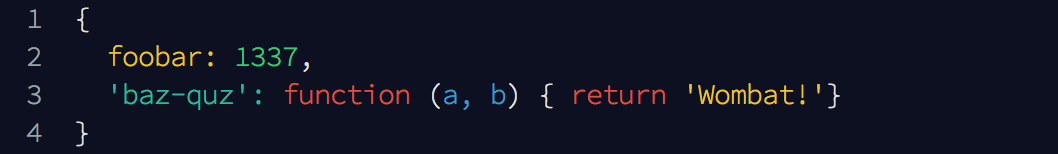
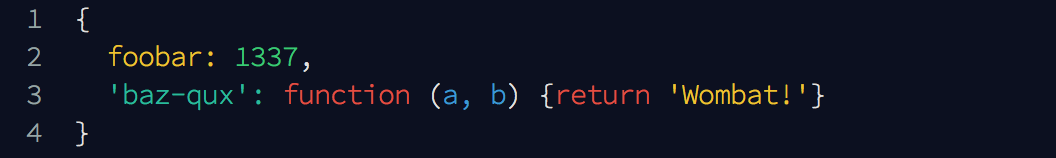
Update README

diff --git a/index.js b/index.js
@@ -4,38 +4,28 @@ const chalk = require('chalk')
 const stripAnsi = require('strip-ansi')
 const merge = require('deepmerge')
 
-const DARK_COLORS = {
-	BASE: ['white'],
-	KEYWORD: ['red'],
-	COMMENT: ['gray', 'dim'],
-	SYMBOL: ['cyan'],
-	META: ['cyan'],
-	NUMBER: ['green'],
-	FUNCTION: ['white'],
-	TITLE: ['green'],
-	PARAMS: ['blue'],
-	STRING: ['yellow'],
-	BUILT_IN: ['blue'],
-	LITERAL: ['magenta'],
-	ATTR: ['yellow'],
-	ATTR_STRING: ['cyan'],
-	TRAILING_SPACE: [],
-	REGEXP: ['magenta'],
-	LINE_NUMBERS: ['gray', 'dim']
-}
-
-const chalkify = styleAry => {
-	if (!styleAry) {
-		return chalk.reset
-	}
-
-	let style = chalk
-
-	styleAry.forEach(prop => {
-		style = style[prop]
-	})
-
-	return style
+const darkPalette = {
+	base: chalk.white,
+	keyword: chalk.red,
+	comment: chalk.white.dim,
+	symbol: chalk.cyan,
+	meta: chalk.cyan,
+	number: chalk.green,
+	function: chalk.white,
+	title: chalk.green,
+	params: chalk.blue,
+	string: chalk.yellow,
+	// eslint-disable-next-line camelcase
+	built_in: chalk.blue,
+	literal: chalk.magenta,
+	attr: chalk.yellow,
+	// eslint-disable-next-line camelcase
+	attr_string: chalk.cyan,
+	// eslint-disable-next-line camelcase
+	trailing_space: chalk,
+	regexp: chalk.magenta,
+	// eslint-disable-next-line camelcase
+	line_numbers: chalk.grey
 }
 
 const filter = (node, opts) => {
@@ -49,14 +39,14 @@ const filter = (node, opts) => {
 	}
 
 	if (node.name === 'span' && node.type === 'tag') {
-		color = node.attribs.class.split('-')[1].toUpperCase()
+		color = node.attribs.class.split('-')[1].toLowerCase()
 	}
 
 	if (node.childNodes && node.childNodes.length > 0) {
 		childText = node.childNodes.map(childNode => filter(childNode, opts)).join('')
 
 		if (typeof color === 'string') {
-			return chalkify(opts.colors[color])(childText)
+			return opts.colors[color](childText)
 		}
 
 		return childText
@@ -110,21 +100,21 @@ const syntaxHlJson = (json, opts) => {
 
 	try {
 		const highlighted = json.replace(/("(\\u[a-zA-Z0-9]{4}|\\[^u]|[^\\"])*"(\s*:)?|\b(true|false|null)\b|-?\d+(?:\.\d*)?(?:[eE][+-]?\d+)?)/g, match => {
-			let colorClass = 'NUMBER'
+			let colorClass = 'number'
 
 			// eslint-disable-next-line unicorn/prefer-starts-ends-with
 			if (/^"/.test(match)) {
 				// eslint-disable-next-line unicorn/prefer-starts-ends-with
 				if (/:$/.test(match)) {
 					if (match.includes('-')) {
-						colorClass = 'ATTR_STRING'
+						colorClass = 'attr_string'
 						match = match.replace(/"/g, '\'')
 					} else {
-						colorClass = 'ATTR'
+						colorClass = 'attr'
 						match = match.replace(/"/g, '')
 					}
 				} else {
-					colorClass = 'STRING'
+					colorClass = 'string'
 
 					match = match.replace(/"/g, '\'')
 						.replace(/\\n/g, '\n')
@@ -134,18 +124,16 @@ const syntaxHlJson = (json, opts) => {
 						match.substr(match.length - 11, 10) === '[FUNCTION]') {
 						match = match.substr(11, match.length - 22)
 						match = syntaxHlStr('javascript', match, opts)
-						colorClass = 'FUNCTION'
+						colorClass = 'function'
 					}
 				}
 			} else if (/true|false/.test(match)) {
-				colorClass = 'LITERAL'
+				colorClass = 'literal'
 			} else if (/null/.test(match)) {
-				colorClass = 'LITERAL'
+				colorClass = 'literal'
 			}
 
-			const styleAry = opts.colors[colorClass]
-			const style = chalkify(styleAry)
-			return style(match)
+			return opts.colors[colorClass](match)
 		})
 
 		return highlighted
@@ -164,7 +152,7 @@ const bgLineNos = (text, opts) => {
 		let lineOutput = ''
 
 		if (opts.lineNumbers) {
-			const lineNum = chalkify(opts.colors.LINE_NUMBERS)(
+			const lineNum = opts.colors.line_numbers(
 				padLine(
 					String(lineNumber + 1)
 						.padStart(String(lines.length + 1).length, ' '),
@@ -176,14 +164,14 @@ const bgLineNos = (text, opts) => {
 
 		const plain = stripAnsi(line)
 		const padToEnd = String().padEnd(max - plain.length, ' ')
-		const runLengthLine = line + chalkify(opts.colors.TRAILING_SPACE)(padToEnd)
+		const runLengthLine = line + opts.colors.trailing_space(padToEnd)
 		const paddedLine = padLine(runLengthLine, opts.codePad)
 		lineOutput += paddedLine
 
 		output += lineOutput + '\n'
 	})
 
-	return chalkify(opts.colors.BASE)(output)
+	return opts.colors.base(output)
 }
 
 const tabToSpaceIndent = (str, opts) => str.replace(/\t/g, String().padStart(opts.indent, ' '))
@@ -195,7 +183,7 @@ const procOpts = (opts = {}) => {
 		lineNumberPad: 1,
 		codePad: 1,
 		indent: 4,
-		colors: DARK_COLORS
+		colors: darkPalette
 	}
 
 	if (opts) {

diff --git a/figure-05.js b/figure-05.js
@@ -1,4 +1,5 @@
 const chromafi = require('.')
+const chalk = require('chalk')
 
 const obj = {
 	foo: 'bar',
@@ -10,22 +11,23 @@ const obj = {
 	}
 }
 
-const chromatastic = chromafi(obj, {
+const chromafantastic = chromafi(obj, {
 	colors: {
-		BASE: ['bgWhite', 'black', 'bold'],
-		KEYWORD: ['red'],
-		NUMBER: ['blue', 'dim'],
-		FUNCTION: ['black'],
-		TITLE: ['blue'],
-		PARAMS: ['black'],
-		STRING: ['black'],
-		BUILT_IN: ['magenta'],
-		LITERAL: ['blue'],
-		ATTR: ['black'],
-		TRAILING_SPACE: [],
-		REGEXP: ['blue'],
-		LINE_NUMBERS: ['bgBlue', 'white']
+		base: chalk.bgWhite.black.bold,
+		keyword: chalk.red,
+		number: chalk.blue.dim,
+		function: chalk.black,
+		title: chalk.blue,
+		params: chalk.black,
+		string: chalk.black,
+		built_in: chalk.blue,
+		literal: chalk.blue,
+		attr: chalk.black,
+		// Just pass `chalk` to ignore colors
+		trailing_space: chalk,
+		regexp: chalk.blue,
+		line_numbers: chalk.bgBlue.white
 	}
 })
 
-console.log(chromatastic)
+console.log(chromafantastic)

diff --git a/figure-00.js b/figure-00.js
@@ -1,6 +1,6 @@
 const chromafi = require('.')
 
-const obj = {foobar: 1337, 'baz-quz': function (a, b) { return 'Wombat!'}}
+const obj = {foobar: 1337, 'baz-qux': function (a, b) {return 'Wombat!'}}
 
 const options = {
 	lineNumberPad: 1,
@@ -8,7 +8,7 @@ const options = {
 	indent: 2,
 	lineNumbers: true,
 	colors: {
-		LINE_NUMBERS: ['reset', 'gray']
+		line_numbers: chalk.grey
 	}
 }
 

diff --git a/README.md b/README.md
@@ -1,10 +1,18 @@
-# Chromafi
+# 💥 Chromafi
 
-> 💥 Syntax highlight to console: any lang - any fn, any - obj.
+> Console syntax highlighting: any function, any object and 176 languages.
 
 ![Figure 00](figure-00.png)
 
-For years, Javacripts across the web have committed monocrimes against humanity too horrible to mention. Today our long stuggle ends. with Chromafi, JavaScript objects logged to the console... still look like JavaScript objects. Oh... and you can highlight other languages too!
+For years, Javacripts across the web have committed monocrimes against humanity too horrible to mention. Today our long stuggle ends.
+
+* JavaScript objects logged to the console... still look like JavaScript objects.
+* Chromafi highlights JavaScript functions.
+* Adjust indentation for tabbed code with Chromafi.
+* User defined color palettes.
+* Line numbers optional.
+* Padding adjustment for use with background colors or tight spaces.
+* Chromafi also highlights strings of code in 176 languages.
 
 ## Usage
 
@@ -38,9 +46,10 @@ const chromafi = require('chromafi')
 function add (a, b) {
     return a + b
 }
-const chromatastic = chromafi(add)
 
-console.log(chromatastic)
+const chromantic = chromafi(add)
+
+console.log(chromantic)
 ```
 
 ![Figure 02](figure-02.png)
@@ -71,9 +80,9 @@ const create = (kind, parent) => {
 }
 `
 
-const chromatastic = chromafi(codeString)
+const chromadactic = chromafi(codeString)
 
-console.log(chromatastic)
+console.log(chromadactic)
 ```
 
 ![Figure 03](figure-03.png)
@@ -96,9 +105,9 @@ const options = {
     }
 }
 
-const chromatastic = chromafi(obj, options)
+const chromafanatic = chromafi(obj, options)
 
-console.log(chromatastic)
+console.log(chromafanatic)
 
 ```
 
@@ -106,10 +115,13 @@ console.log(chromatastic)
 
 ## Light Color Scheme
 
-Chromafi uses [`chalk`](https://github.com/chalk/chalk) to write colorcodes to the terminal. Each color class is an array of chalk colors. 
+Chromafi uses [Chalk](https://github.com/chalk/chalk) to write ANSI color codes to the terminal.
 
 ```javascript
 const chromafi = require('chromafi')
+
+const chromafi = require('.')
+const chalk = require('chalk')
 
 const obj = {
     foo: 'bar',
@@ -121,34 +133,35 @@ const obj = {
     }
 }
 
-const chromatastic = chromafi(obj, {
+const chromafantastic = chromafi(obj, {
     colors: {
-        BASE: ['bgWhite', 'black', 'bold'],
-        KEYWORD: ['red'],
-        NUMBER: ['blue', 'dim'],
-        FUNCTION: ['black'],
-        TITLE: ['blue'],
-        PARAMS: ['black'],
-        STRING: ['black'],
-        BUILT_IN: ['magenta'],
-        LITERAL: ['blue'],
-        ATTR: ['black'],
-        TRAILING_SPACE: [],
-        REGEXP: ['blue'],
-        LINE_NUMBERS: ['bgBlue', 'white']
+        base: chalk.bgWhite.black.bold,
+        keyword: chalk.red,
+        number: chalk.blue.dim,
+        function: chalk.black,
+        title: chalk.blue,
+        params: chalk.black,
+        string: chalk.black,
+        built_in: chalk.blue,
+        literal: chalk.blue,
+        attr: chalk.black,
+        // Just pass `chalk` to ignore colors
+        trailing_space: chalk,
+        regexp: chalk.blue,
+        line_numbers: chalk.bgBlue.white
     }
 })
 
-console.log(chromatastic)
+console.log(chromafantastic)
 ```
 
 ![Figure 05](figure-05.png)
 
-## Logging Other Languages
+## Highlighting Other Languages
 
-Chromafi uses [`highlight.js`](https://highlightjs.org/) internally to add syntax highlighting to your code. This means that you can use any language that `highlight.js` can use.
+Chromafi uses [Highlight.js](https://highlightjs.org/) to syntax highlight to your code. This means Chromafi can highlight any language that `Highlight.js` can.
 
-Here is an example using Chromafi to highlight assembler syntax .
+Let's Chromafi some assembler syntax:
 
 ```javascript
 const chromafi = require('chromafi')
@@ -198,3 +211,8 @@ console.log(chromalicious)
 ```
 
 ![Figure 06](figure-06.png)
+
+## Supported Languages
+
+> 1c, abnf, accesslog, actionscript, ada, apache, applescript, arduino, armasm, asciidoc, aspectj, autohotkey, autoit, avrasm, awk, axapta, bash, basic, bnf, brainfuck, cal, capnproto, ceylon, clean, clojure-repl, clojure, cmake, coffeescript, coq, cos, cpp, crmsh, crystal, cs, csp, css, d, dart, delphi, diff, django, dns, dockerfile, dos, dsconfig, dts, dust, ebnf, elixir, elm, erb, erlang-repl, erlang, excel, fix, flix, fortran, fsharp, gams, gauss, gcode, gherkin, glsl, go, golo, gradle, groovy, haml, handlebars, haskell, haxe, hsp, htmlbars, http, hy, inform7, ini, irpf90, java, javascript, jboss-cli, json, julia-repl, julia, kotlin, lasso, ldif, leaf, less, lisp, livecodeserver, livescript, llvm, lsl, lua, makefile, markdown, mathematica, matlab, maxima, mel, mercury, mipsasm, mizar, mojolicious, monkey, moonscript, n1ql, nginx, nimrod, nix, nsis, objectivec, ocaml, openscad, oxygene, parser3, perl, pf, php, pony, powershell, processing, profile, prolog, protobuf, puppet, purebasic, python, q, qml, r, rib, roboconf, routeros, rsl, ruby, ruleslanguage, rust, scala, scheme, scilab, scss, shell, smali, smalltalk, sml, sqf, sql, stan, stata, step21, stylus, subunit, swift, taggerscript, tap, tcl, tex, thrift, tp, twig, typescript, vala, vbnet, vbscript-html, vbscript, verilog, vhdl, vim, x86asm, xl, xml, xquery, yaml, zephir
+
